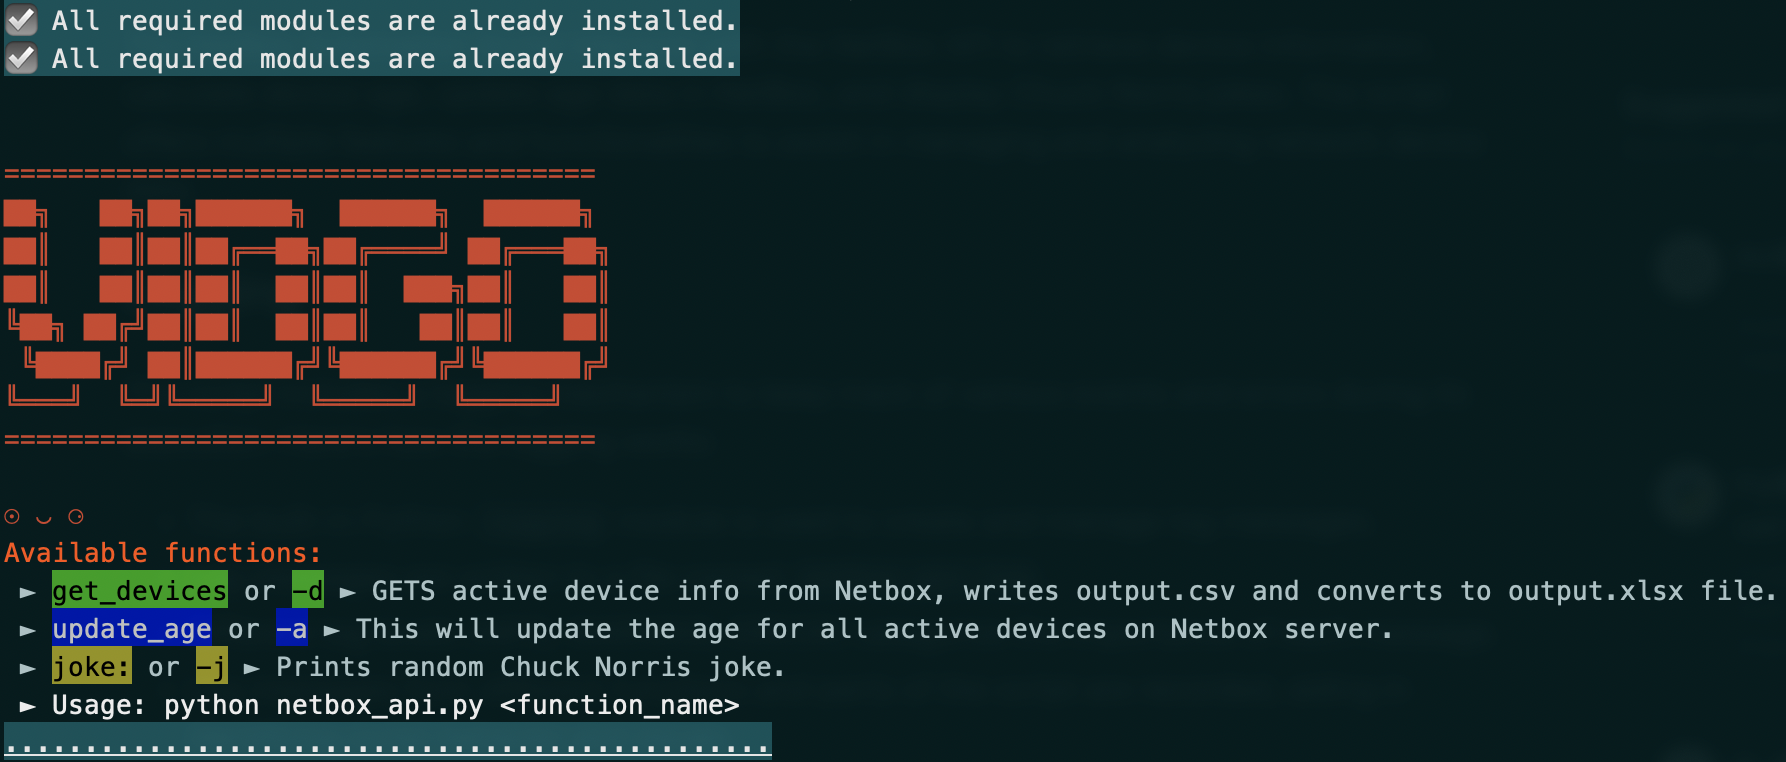
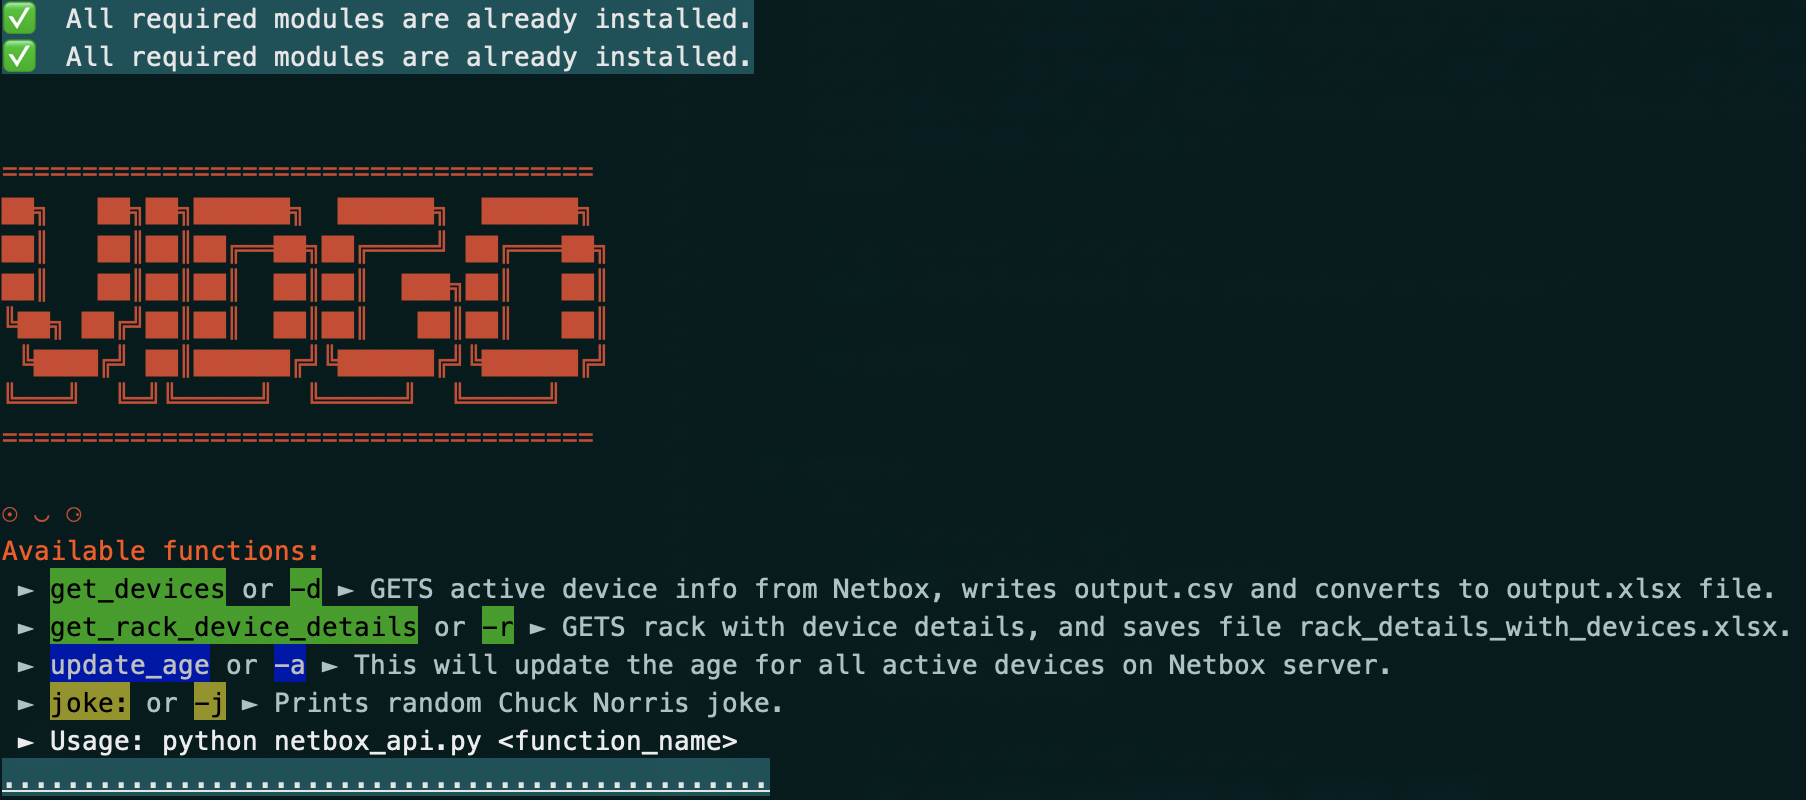
Alpha20. Added get_racks functionality. Other cleanup.

Changed region(s): [[0.0, 0.6339, 0.9854, 1.0], [0.0, 0.2113, 0.3387, 0.6037], [0.0, 0.0, 0.4311, 0.1207]]

diff --git a/netbox_api.py b/netbox_api.py
@@ -53,49 +53,62 @@ def is_module_installed(module_name):
         importlib.import_module(module_name)
         return True
     except ImportError:
-        warning_message = f"Module {module_name} is not installed."
+        warning_message = f"❌  Module {module_name} is not installed."
         logger.warning(warning_message)
+        #logger.info(warning_message)  # Log the same message as info level
         return False
 
 # Install a missing module		
 def install_module(module_name):
     try:
-        subprocess.check_call(["pip3", "install", module_name])
+        # Redirect pip3 output to the log file
+        with open("netbox_api.log", "a") as log_file:
+            subprocess.check_call(["pip3", "install", module_name], stdout=log_file, stderr=log_file)
+
         success_message = f"Successfully installed {module_name}"
-        print(BOLD + BG_CYAN + WHITE + f"☑  {success_message}" + RESET)
+        print(BOLD + BG_CYAN + WHITE + f"✅  {success_message}" + RESET)
         logger.info(success_message)
+        logger.debug(success_message)  # Log the same message as debug level
     except Exception as e:
-        error_message = f"Error installing {module_name}: {e}"
-        print(BOLD + UNDERLINE + RED + f"🅧  {error_message}" + RESET)
+        error_message = f"❌  Error installing {module_name}: {e}"
+        print(BOLD + UNDERLINE + RED + f"❌  {error_message}" + RESET)
         logger.error(error_message)
-
-
+        logger.debug(error_message)  # Log the same message as debug level
 
 # Check and install missing modules
 def check_and_install_modules(module_list):
     missing_modules = [module for module in module_list if not is_module_installed(module)]
     
     if missing_modules:
-        print("⚠  The following required modules are missing:")
-        logger.warning("The following required modules are missing:")
+        #print("⚠  The following required modules are missing:")
+        #logger.warning("The following required modules are missing:")
         for module in missing_modules:
-            print(f" - {module}")
+            #print(f" - {module}")
             logger.warning(f" - {module}")
+            #logger.info(f" - {module}")
         
-        install_choice = input("Do you want to install the missing modules? (y/n): ").lower()
-        
-        if install_choice == "y":
-            for module in missing_modules:
-                install_module(module)
+        while True:
+            install_choice = input(BOLD + WHITE + "Do you want to install the missing modules? (y/n): " + RESET).strip().lower()
+
+            if install_choice == "y" or install_choice == "yes":
+                logger.info(BOLD + WHITE + "User chose to install missing modules.")
+                for module in missing_modules:
+                    install_module(module)
+                break
+            elif install_choice == "":
+                print(BG_BLUE + BOLD + YELLOW + "Please enter 'y' or 'yes' to install missing modules." + RESET)
+                logger.info("User pressed Enter/Return. Please enter 'y' or 'yes' to install missing modules." + RESET)
+            else:
+                print(BG_BLUE + BOLD + YELLOW + "Missing modules will not be installed." + RESET)
+                logger.info("User chose not to install missing modules.")
+                break
     
     else:
-        print(BOLD + BG_CYAN + WHITE + "☑  All required modules are already installed." + RESET)
-        logger.info("All required modules are already installed.")
+        print(BOLD + BG_CYAN + WHITE + "✅  All required modules are already installed." + RESET)
+        logger.info("✅  All required modules are already installed.")
+        logger.debug("✅  All required modules are already installed.")  # Log the same message as debug level
 
-# Call the function to check and install modules
-logger.setLevel(logging.ERROR)  # or logging.CRITICAL
 check_and_install_modules(required_modules)
-logger.setLevel(logging.INFO)  # Set it back to INFO after the function call
 
 # Main Modules
 import os
@@ -111,6 +124,7 @@ import datetime
 from datetime import datetime
 import openpyxl
 from openpyxl.styles import Alignment
+import textwrap
 
 # Load sensitive data from config.py and store as environment variables
 try:
@@ -167,6 +181,7 @@ def get_devices(nb_devicelist, headers):
     devices_data = []  # List to hold device information
     logger.info("Getting device information from Netbox...")
     print()
+    print(BOLD + BG_GREEN + WHITE +"Getting device information from Netbox..." + RESET)
     print(UNDERLINE + BG_GREEN + BLACK + "................................................" + RESET)
     print()
     print(GREEN + NETBOX_ASCII + RESET)
@@ -210,8 +225,9 @@ def get_devices(nb_devicelist, headers):
 
     csv_to_xlsx(headers, devices_data)
     logger.info("Device information written to output.csv and output.xlsx")
+    print(BOLD + BG_GREEN + WHITE + "Device information written to output.csv and output.xlsx" + RESET)
     logger.info("Finished getting device information from Netbox")
-    print()
+    print(BOLD + BG_GREEN + WHITE + "Finished getting device information from Netbox" + RESET)
     print(UNDERLINE + BG_GREEN + BLACK + "................................................" + RESET)
     print()
 
@@ -219,6 +235,7 @@ def get_devices(nb_devicelist, headers):
 def update_age(nb_devicelist):
     logger.info("Updating age information for devices...")
     print()
+    print(BG_CYAN + BLACK + "Updating age information for devices..." + RESET)
     print(UNDERLINE + BG_CYAN + BLACK + "................................................" + RESET)
     print()
     print(CYAN + NETBOX_ASCII + RESET)
@@ -238,41 +255,115 @@ def update_age(nb_devicelist):
     print(UNDERLINE + BG_CYAN + BLACK + "................................................" + RESET)
     print()
 
-				
+
+def save_rack_details_to_xlsx(racks_with_devices):
+    wb = openpyxl.Workbook()
+    # Remove the default "Sheet"
+    wb.remove(wb.active)
+
+    for rack_name, devices_info in racks_with_devices.items():
+        ws = wb.create_sheet(title=rack_name)
+        ws.append(["Device Name", "Role", "Type", "Manufacturer", "Rack Unit"])
+        for device_info in devices_info:
+            ws.append([
+                device_info["name"],
+                device_info["role"],
+                device_info["type"],
+                device_info["manufacturer"],
+                device_info["rack_unit"]
+            ])
+
+    wb.save('rack_details_with_devices.xlsx')
+
+def get_rack_details_with_devices(nb_instance):
+    try:
+        logger.info("Fetching rack details and associated devices from NetBox...")
+        print(BOLD + BG_GREEN + WHITE + "Fetching rack details and associated devices from NetBox..." + RESET)
+        print(UNDERLINE + BG_GREEN + BLACK + "................................................" + RESET)
+
+        print(GREEN + NETBOX_ASCII + RESET)
+        racks_with_devices = {}
+
+        # Fetch all racks from NetBox
+        racks = nb_instance.dcim.racks.all()
+
+        for rack in racks:
+            rack_info = {
+                "name": rack.name,
+                "site": rack.site.name,
+                "location": rack.location,
+                "height": rack.u_height
+            }
+
+            devices_info = []
+            for device in nb_instance.dcim.devices.filter(rack_id=rack.id):
+                device_info = {
+                    "name": device.name,
+                    "role": device.device_role.name if device.device_role else "N/A",
+                    "type": device.device_type.model if device.device_type else "N/A",
+                    "manufacturer": device.device_type.manufacturer.name if device.device_type and device.device_type.manufacturer else "N/A",
+                    "rack_unit": device.position if device.position else "N/A"
+                }
+                devices_info.append(device_info)
+
+            racks_with_devices[rack.name] = devices_info
+
+        logger.info("Retrieved rack details and associated devices.")
+        print(BOLD + BG_GREEN + WHITE + "Retrieved rack details and associated devices." + RESET)
+        save_rack_details_to_xlsx(racks_with_devices)
+        logger.info("Saved rack details with associated devices to rack_details_with_devices.xlsx")
+        print(BOLD + BG_GREEN + WHITE + "Saved rack details with associated devices to rack_details_with_devices.xlsx" + RESET)
+
+    except pynetbox.RequestError as pnb_error:
+        logger.error("A pynetbox error occurred: %s", pnb_error)
+    except Exception as e:
+        logger.error("An error occurred: %s", e)
+    print(UNDERLINE + BG_GREEN + BLACK + "................................................" + RESET)
+    print()
+
+
+def get_rack_names(nb_instance):
+    rack_names = []
+    racks = nb_instance.dcim.racks.all()
+    for rack in racks:
+        rack_names.append(rack.name)
+    return rack_names
+
 def joke():
     try:
         response = requests.get("https://api.chucknorris.io/jokes/random")
         response.raise_for_status()  # Check for HTTP errors
         joke_data = response.json()
         joke_text = joke_data.get("value")
-        logger.info("Random Chuck Norris Joke:")
-        logger.info(joke_text)
-        print()
+        logger.info("Random Chuck Norris Joke: %s", joke_text)  # Log the full joke text
+
+        print()  # Print an empty line
         print(YELLOW + CHUCK_ASCII + RESET)
         print()
-        print(BG_YELLOW + BLACK + "Random Chuck Norris Joke:" + RESET)
-        print(BG_YELLOW + BLACK + joke_text + RESET)
-        print("................................................")
-        print("________________________________________________")
+
+        # Word wrap the joke text and print it with background color reset after 77 characters
+        wrapped_joke_text = textwrap.fill(joke_text, width=62)  # Adjust width as needed
+        lines = wrapped_joke_text.split('\n')
+        for line in lines:
+            print(BG_YELLOW + BLACK + line[:62] + RESET)
+            print(BG_YELLOW + BLACK + line[62:] + RESET)
+        print("................................................................")
+        print("________________________________________________________________")    
+
     except requests.exceptions.ConnectionError:
-        print(BG_RED + BLACK + "Error: Could not establish an internet connection." + RESET)
         logger.error("Error: Could not establish an internet connection.")
     except requests.exceptions.HTTPError as e:
-        print(BG_RED + BLACK + f"HTTP error occurred: {e}" + RESET)
-        logger.error(f"HTTP error occurred: {e}")
+        logger.error("HTTP error occurred: %s", e)
     except Exception as e:
-        print(BG_RED + BLACK + f"An error occurred: {e}" + RESET)
-        logger.error(f"An error occurred: {e}")
+        logger.error("An error occurred: %s", e)
 
-
-
-		
 def show_help():
     print()
     print(RED + VIDGO_ASCII + RESET)
     print(RED + FACE_ASCII + RESET)
     print(BOLD + "Available functions:" + RESET)
     print(" ► " + BG_GREEN + BLACK + "get_devices" + RESET + " or " + BG_GREEN + BLACK + "-d" + RESET + " ► GETS active device info from Netbox, writes output.csv and converts to output.xlsx file.")
+    print (" ► " + BG_GREEN + BLACK + "get_rack_device_details" + RESET + " or " + BG_GREEN + BLACK + "-r" + RESET + " ► GETS rack with device details, and saves file rack_details_with_devices.xlsx.")
     print(" ► " + BG_BLUE + WHITE + "update_age" + RESET + " or " + BG_BLUE + WHITE + "-a" + RESET + " ► This will update the age for all active devices on Netbox server.")
     print(" ► " + BG_YELLOW + BLACK + "joke:" + RESET + " or " + BG_YELLOW + BLACK + "-j" + RESET +  " ► Prints random Chuck Norris joke.")
     print(BOLD + WHITE + " ► Usage: python netbox_api.py <function_name>")
@@ -293,7 +384,17 @@ def main():
         # Validate config.py
         validate_config()
 
+        # Set up NetBox API connection
+        nb = pynetbox.api(NETBOX_URL, NETBOX_TOKEN)
+
+        # Get list of available rack names
+        rack_names = get_rack_names(nb)
+
+        # Call the function to check and install modules
+        logger.setLevel(logging.ERROR)
         check_and_install_modules(required_modules)
+        logger.setLevel(logging.DEBUG)
+        
         if len(sys.argv) < 2:
             show_help()
 
@@ -303,6 +404,8 @@ def main():
             get_devices(nb_devicelist, headers)
         elif function_name == "update_age" or function_name == "-a":
             update_age(nb_devicelist)
+        elif function_name == "get_racks" or function_name == "-r":
+             get_rack_details_with_devices(nb)
         elif function_name == "joke" or function_name == "-j":
             joke()
         elif function_name == "--help" or function_name == "-h":

diff --git a/config.py b/config.py
@@ -1,2 +1,2 @@
-NETBOX_TOKEN = '1b5cb09f1a72494a01a4cba5d1c18daae47ae704'
-NETBOX_URL = 'https://netbox.vidgo.com'
+NETBOX_TOKEN = ''
+NETBOX_URL = ''

diff --git a/README.md b/README.md
@@ -20,10 +20,12 @@ For more details on how logging works and how you can customize its behavior, re
 
 ## Features
 
-- Connects to the NetBox API to retrieve and process device information.
-- Calculates the age of devices based on birthdate information.
-- Updates the age information for active devices in NetBox.
-- Displays random Chuck Norris jokes for entertainment.
+- Get active device information from NetBox and export to CSV and XLSX formats.
+- Update the age information for active devices based on their birthday.
+- Retrieve and display rack details including devices installed.
+- Display a random Chuck Norris joke.
+- Automatically install missing Python modules.
+- Logging of script actions to `netbox_api.log`.
 
 ## Prerequisites
 
@@ -49,6 +51,7 @@ For more information on using the `pynetbox` module, refer to the official docum
 ## Available Functions
 
 - `get_devices` (`-d`): Retrieves active device information from NetBox, writes to `output.csv`, and converts it to an `output.xlsx` file.
+- `get_racks` (`-r`): Retrieves rack with devices details, writes to `rack_details_with_devices.xlsx` file.
 - `update_age` (`-a`): Updates the age of active devices in NetBox based on birthdate information.
 - `joke` (`-j`): Displays a random Chuck Norris joke.
 
@@ -74,14 +77,85 @@ The script retrieves the following device fields from the NetBox server:
 - `SW_Version`: Software version (custom field).
 - `Primary IP`: Primary IP address of the device.
 
+## Rack Details with Device Information
+The get_racks function offers a comprehensive view of rack details along with information about devices installed within each rack. This feature is invaluable for visualizing rack occupancy and understanding the distribution of network devices.
+
+### Functionality
+When you execute the get_racks function, the script undertakes the following steps:
+
+1. Fetches all racks from the NetBox instance.
+2. For each rack:
+    - Displays rack-specific information such as rack name, site location, physical location, and height.
+    - Retrieves devices associated with the rack using the NetBox API.
+    - Presents detailed information about each device, including its name, role, type, manufacturer, rack unit position, and more.
+
+This functionality provides a quick assessment of each rack's contents, reveals available space, and facilitates understanding of the types of devices installed.
+
+### Example Output
+Below is an example of what the output might resemble:
+```
+Rack Name: Rack1
+Site: Main Data Center
+Location: Data Center Room 1
+Height: 42
+Devices:
+ - Device Name: Router1
+   Role: Router
+   Type: Enterprise Router
+   Manufacturer: Cisco
+   Rack Unit: 5
+ - Device Name: Switch1
+   Role: Switch
+   Type: Access Switch
+   Manufacturer: Cisco
+   Rack Unit: 10
+ ...
+
+Rack Name: Rack2
+Site: Secondary Data Center
+Location: Data Center Room 2
+Height: 42
+Devices:
+ - Device Name: Firewall1
+   Role: Firewall
+   Type: Enterprise Firewall
+   Manufacturer: Palo Alto
+   Rack Unit: 3
+ - Device Name: Switch2
+   Role: Switch
+   Type: Access Switch
+   Manufacturer: Juniper
+   Rack Unit: 12
+ ...
+
+```
+### Use Cases
+- ***Capacity Planning:*** The output offers a clear view of rack utilization, aiding in capacity planning and allocation of space for new devices.
+- ***Device Distribution:*** Rapid identification of racks housing specific device types (e.g., routers, switches) ensures balanced distribution and redundancy.
+- ***Troubleshooting:*** When diagnosing issues, an overview of device locations assists in pinpointing potential problem areas.
+
+### Logging
+Information presented during the execution of the get_racks function is logged, providing transparency into the process and enabling review of details at a later stage.
+
+This functionality amplifies your ability to manage and comprehend your network infrastructure, ensuring efficient utilization of rack space and enhancing device management practices.
 
 ## Usage
 
 Run the script with a specified function name to perform the desired action. For example:
 - To retrieve device information and generate CSV and Excel reports: `python netbox_api.py get_devices`
+- To retrieve rack with device details and generated Excel report: `python netbox_api.py get_racks`
 - To update age information for active devices: `python netbox_api.py update_age`
 - To display a Chuck Norris joke: `python netbox_api.py joke`
 
 ## Terminal Grab
 
 ![GitHub Logo](images/terminal_grab.png)
+
+## Acknowledgements
+
+- This script uses the PyNetbox library for interacting with the NetBox API.
+- The Chuck Norris jokes are retrieved from the Chuck Norris Jokes API.
+
+## License
+
+This project is licensed under the MIT License - see the LICENSE file for details.
